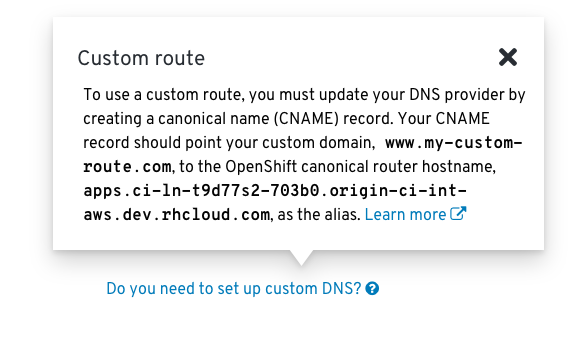
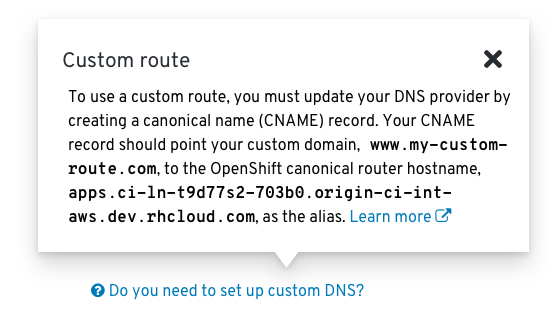
incorporated feedback from Brie and Andy.

Changed region(s): [[0.0619, 0.1136, 0.9909, 0.9369]]

diff --git a/web-console/future-openshift/contextual-help/contextual-help.md b/web-console/future-openshift/contextual-help/contextual-help.md
@@ -45,7 +45,7 @@ The hint pattern is similar to an informational inline notification, but with ad
 * There can optionally be external links within the body text
 * There can optionally be a primary action below the body text
 * Title, body text, and primary action are left aligned
-* For cases without a primary action, there can optionally be an X in the top right corner to dismiss the message
+* For cases without a primary action, there should be an X in the top right corner to dismiss the message.
 
 #### Colors
 * Font: `pf-blue-600`
@@ -82,4 +82,4 @@ There are two aspects of the Infopop pattern: the prompt and the popover.
 * If it is helpful to include a title, then the simple popover component may be used.
 * The content of the popover should be brief and instructive, informing users what information they need to accomplish the task without unnecessary background information.
 * A link to more comprehensive documentation can optionally be included.
-* The popover should not be the only source of data necessary to perform the task. In other words, an advanced user should be accomplish the task without needing to look at the popover.
+* The popover should not be the only source of data necessary to perform the task. In other words, an advanced user should be able to accomplish the task without needing to look at the popover.
